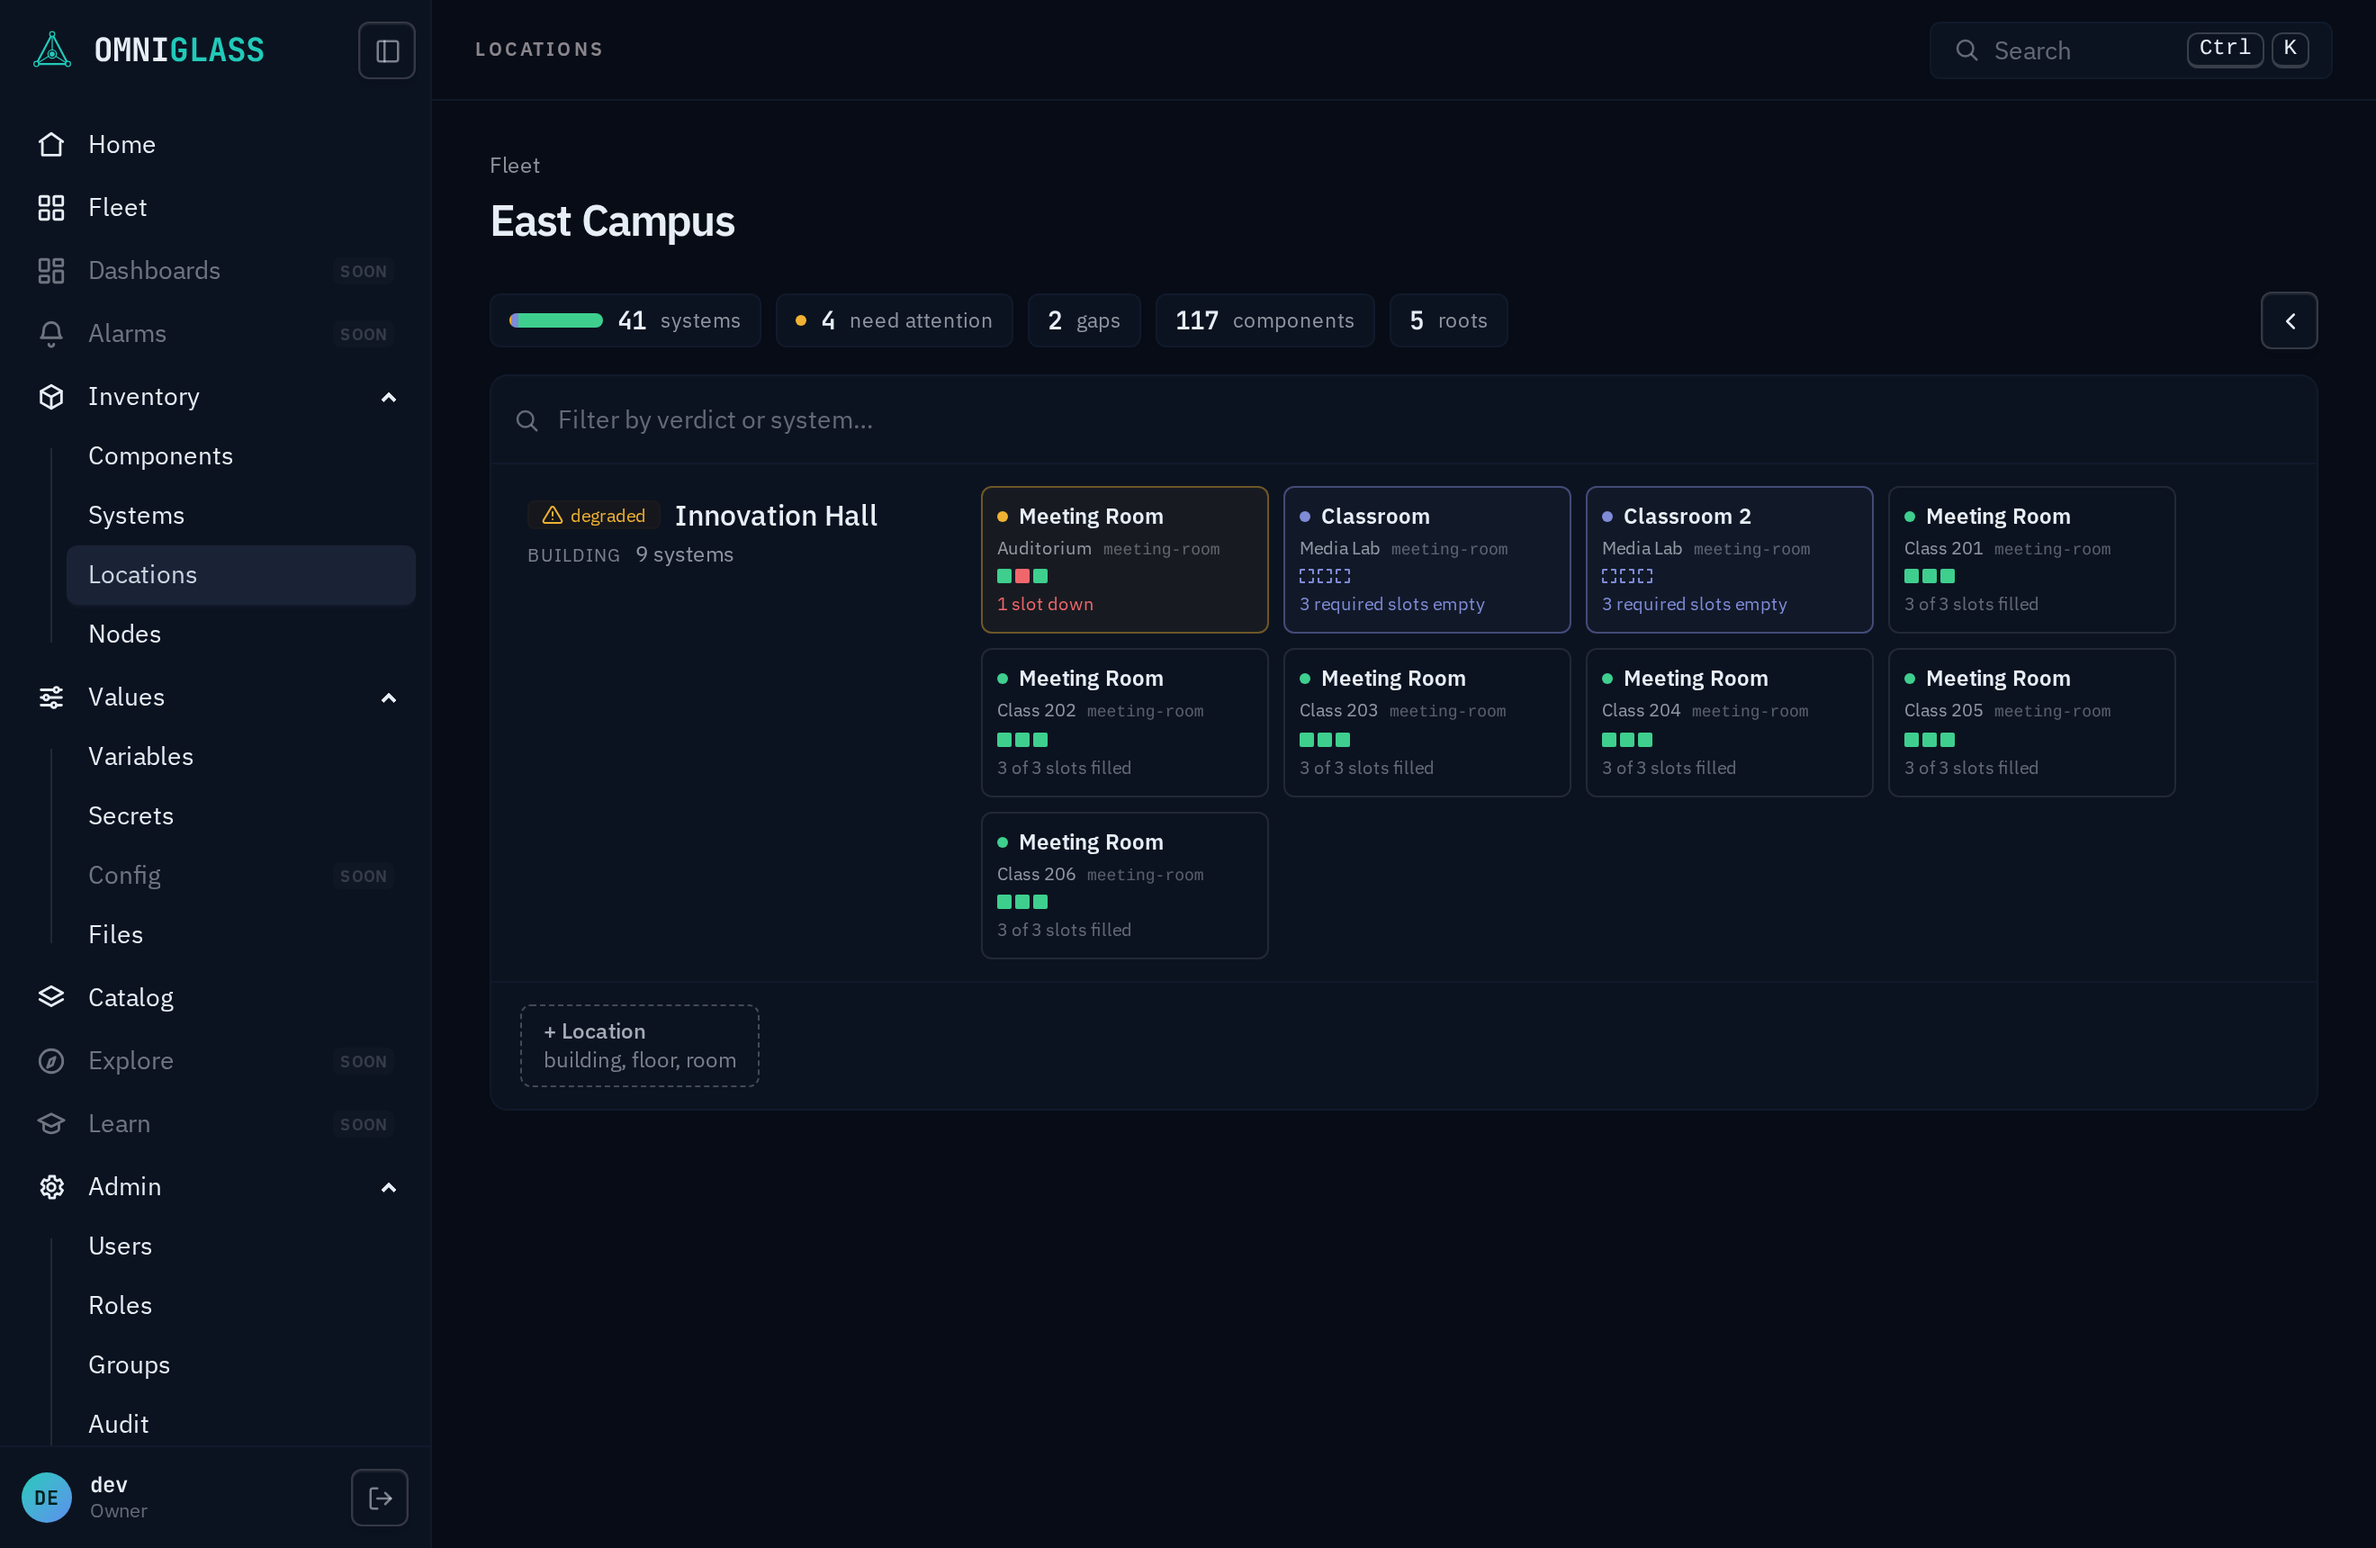
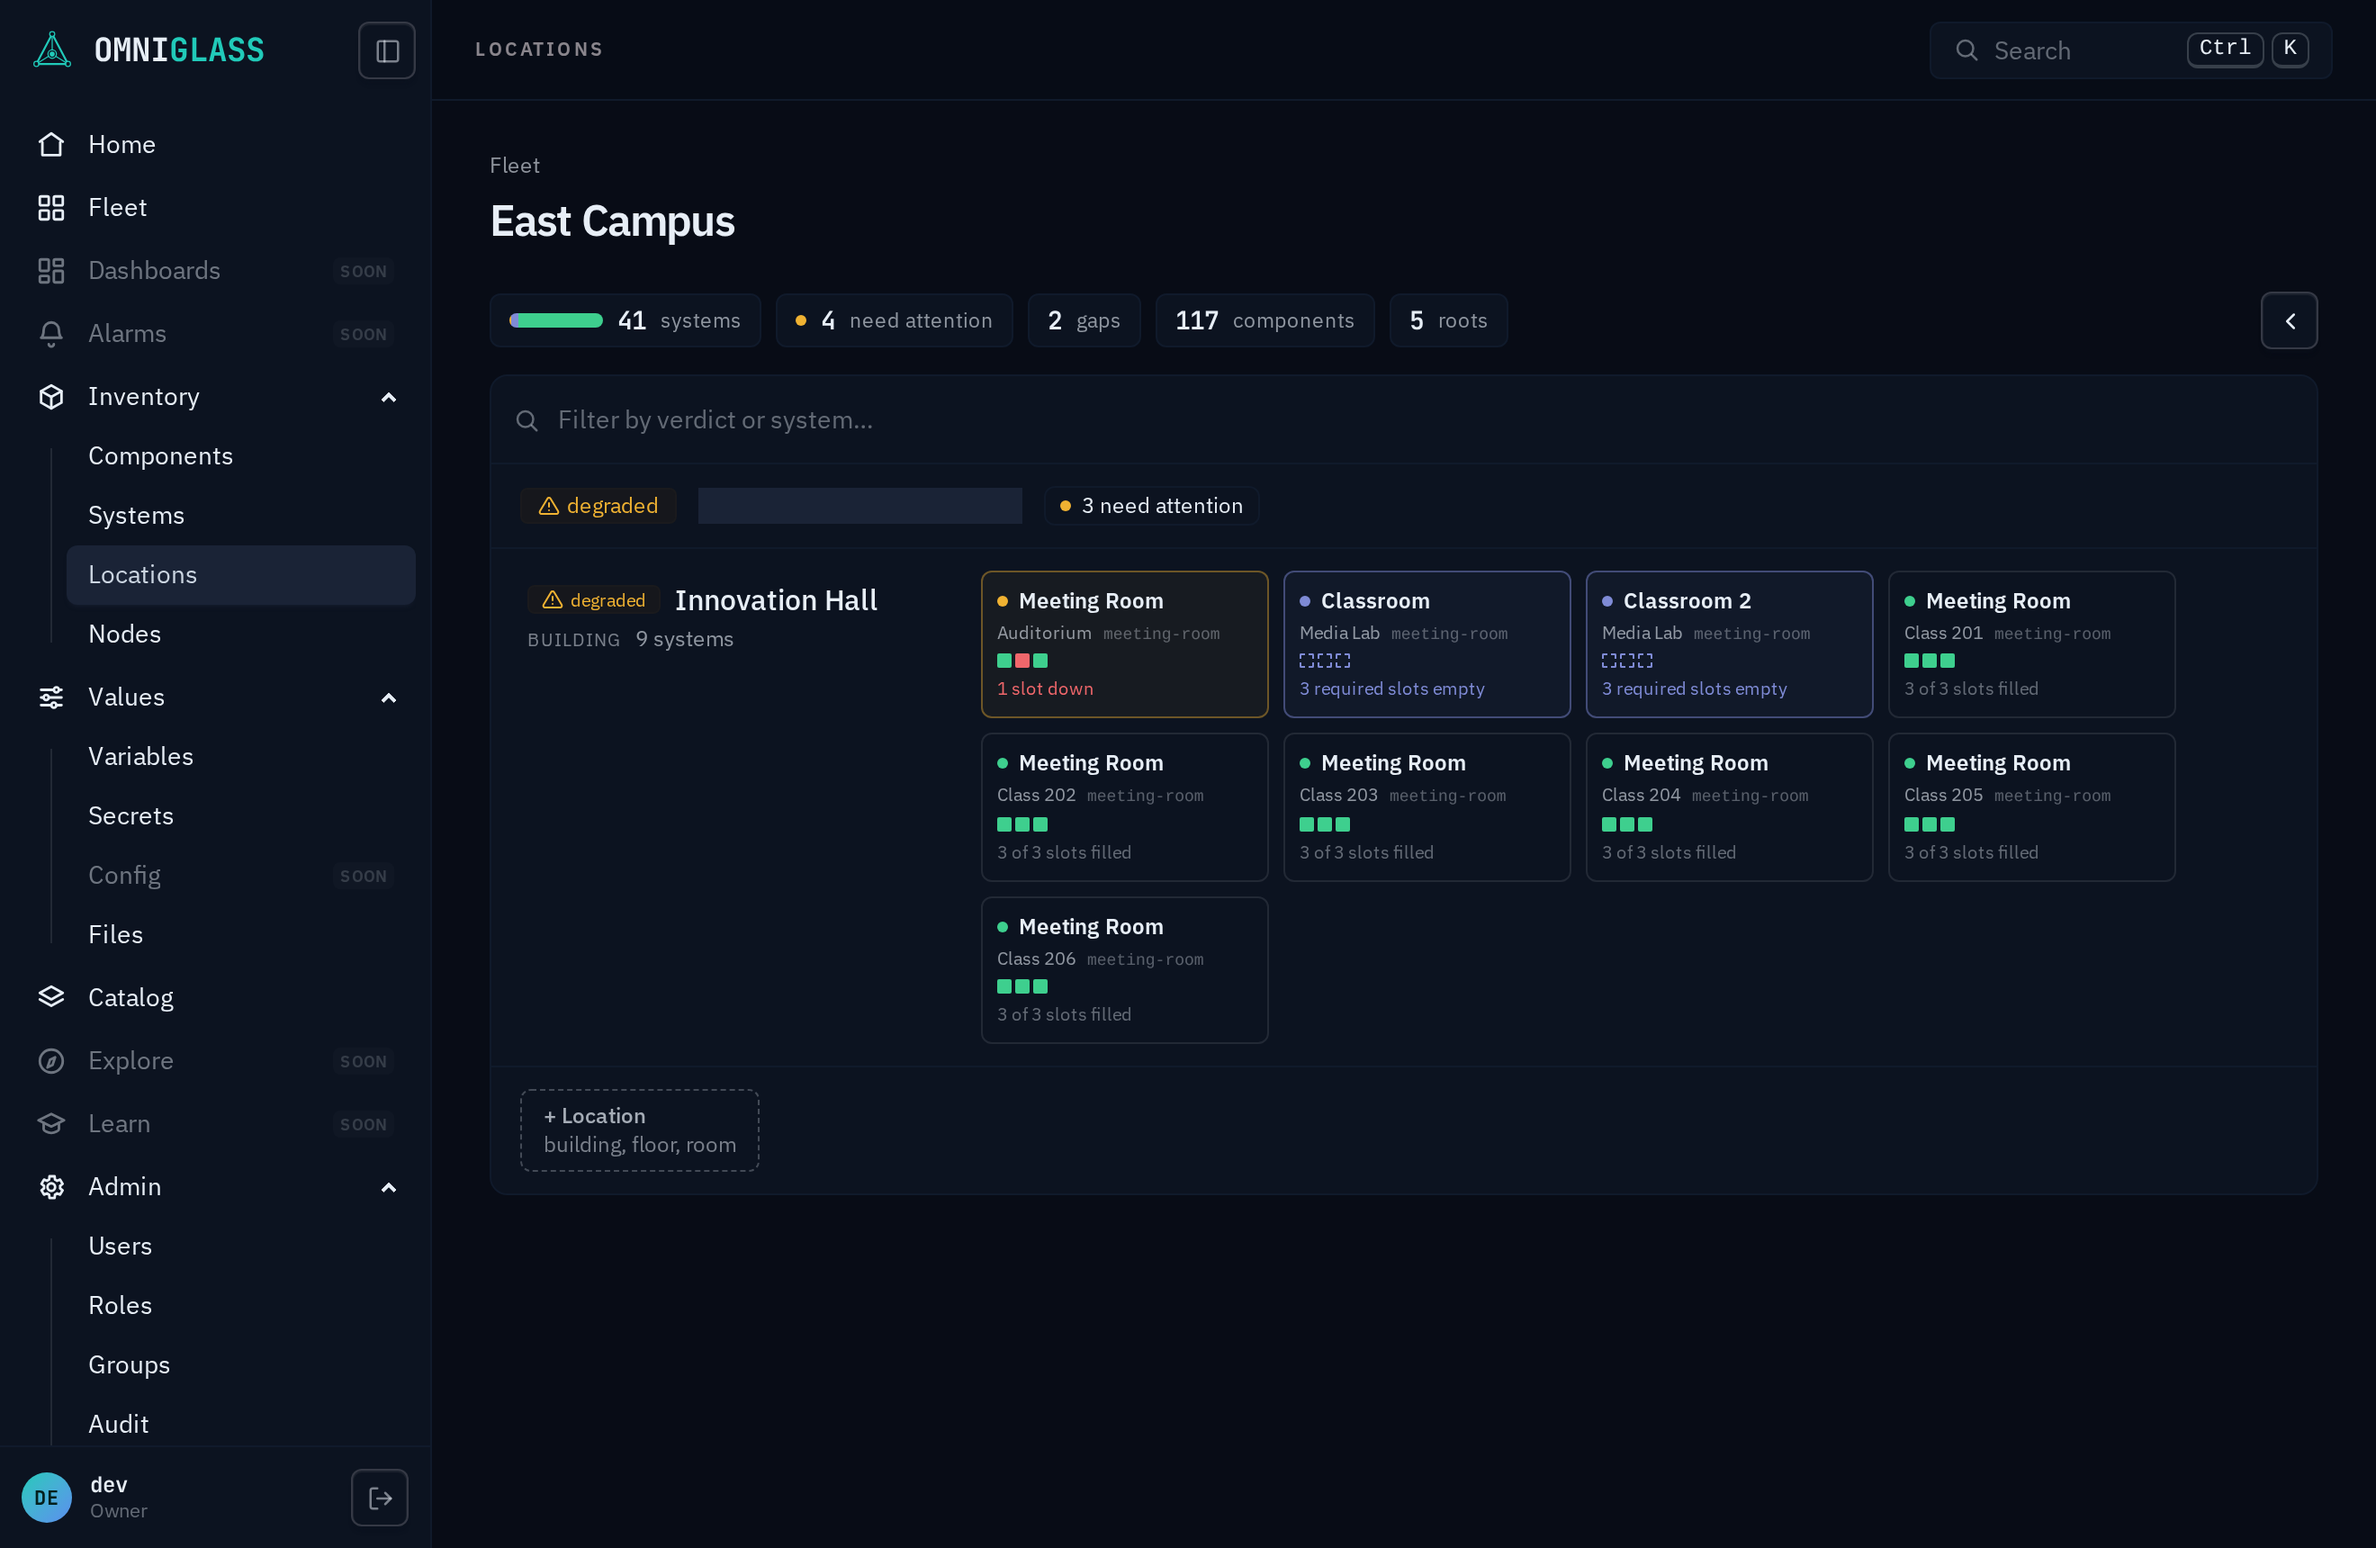
feat: the location header matches the system zoom (#787)
The location zoom's header gains the verdict badge, the since-line from
the location health read's transitions, and a needs-attention count for
this subtree whose click applies the existing worst-first verdict filter
to the cards. No new API; the location health read was already there.

diff --git a/web/src/pages/LocationZoom.tsx b/web/src/pages/LocationZoom.tsx
@@ -22,7 +22,10 @@ import {
 } from "../lib/fleet";
 import { LOCATION_TYPES_KEY, listLocationTypes } from "../lib/location_types";
 import { entityLabel } from "../lib/entities";
-import { describeError } from "../lib/format";
+import { durationText } from "../lib/timeline";
+import { sinceOf } from "../lib/system_zoom";
+import { describeError, fmtTime } from "../lib/format";
+import { locationHealth, locationHealthKey } from "../lib/health";
 
 // The location zoom (#635): the same canvas one level down, at the identity
 // route behind ?zoom=1 (ADR-0126). One band per direct child whatever its
@@ -35,6 +38,9 @@ export default function LocationZoom() {
   const navigate = useNavigate();
   const id = () => params.id;
   const view = useQuery(() => ({ queryKey: FLEET_VIEW_KEY, queryFn: fleetView }));
+  const locHealth = useQuery(() => ({ queryKey: locationHealthKey(id()), queryFn: () => locationHealth(id()) }));
+  // Pinned at setup, like the system zoom's: a moving now re-ages the line.
+  const pageNow = Date.now();
   const types = useQuery(() => ({ queryKey: LOCATION_TYPES_KEY, queryFn: listLocationTypes }));
 
   const anchor = createMemo(() => (view.data ? locationIndex(view.data).get(id()) : undefined));
@@ -62,6 +68,21 @@ export default function LocationZoom() {
     return bandsOf(view.data, byChildOfLocation(id())).map((b) => ({ ...b, clusters: b.clusters.filter(pred) }));
   });
   const holes = createMemo(() => (view.data ? holesUnder(id(), view.data) : new Map()));
+  // This subtree's own attention count, unfiltered: what the header chip
+  // reports and the chip's click narrows the cards to.
+  const ATTENTION = ["outage", "degraded", "incomplete"];
+  const attention = createMemo(() => {
+    if (!view.data) return 0;
+    return bandsOf(view.data, byChildOfLocation(id())).reduce(
+      (n, b) => n + b.clusters.filter((c) => c.verdict !== null && c.verdict !== "healthy").length,
+      0,
+    );
+  });
+  const attentionOn = () => chips().some((c) => c.key === "verdict" && c.values.some((v) => ATTENTION.includes(v)));
+  const toggleAttention = () => {
+    const rest = chips().filter((c) => c.key !== "verdict");
+    setChips(attentionOn() ? rest : [...rest, { key: "verdict", op: "eq", values: ATTENTION }]);
+  };
 
   const crumbs = createMemo(() => {
     if (!view.data) return [];
@@ -108,6 +129,25 @@ export default function LocationZoom() {
             chips={chips}
             onChips={setChips}
             placeholder="Filter by verdict or system…"
+            header={
+              <div data-testid="location-header" class="flex flex-wrap items-center gap-x-3 gap-y-1 text-sm">
+                <HealthBadge verdict={anchor()?.verdict ?? undefined} size="sm" />
+                <Show when={locHealth.data && sinceOf(locHealth.data, pageNow)}>
+                  {(sc) => <span data-testid="since-line" class="tabular-nums text-base-content/70">since {fmtTime(sc().ts)} · {durationText(sc().ms)}</span>}
+                </Show>
+                <Show when={attention() > 0}>
+                  <button
+                    type="button"
+                    class="inline-flex cursor-pointer items-center gap-1.5 rounded-field border px-2 py-0.5 text-xs"
+                    classList={{ "border-primary bg-primary/10": attentionOn(), "border-base-300": !attentionOn() }}
+                    onClick={toggleAttention}
+                  >
+                    <span class="h-1.5 w-1.5 flex-none rounded-full bg-warning" />
+                    {attention()} need attention
+                  </button>
+                </Show>
+              </div>
+            }
           >
             <div class="flex flex-col divide-y divide-base-300">
               <For each={bands()}>{(band) => <ZoomBand band={band} view={view.data!} />}</For>

diff --git a/web/src/pages/LocationZoom.test.tsx b/web/src/pages/LocationZoom.test.tsx
@@ -4,7 +4,7 @@ import { Router, Route } from "@solidjs/router";
 import { QueryClient, QueryClientProvider } from "@tanstack/solid-query";
 import Locations from "./Locations";
 import { FLEET_VIEW_KEY, type FleetView } from "../lib/fleet";
-import { systemHealthKey, type FleetHealth } from "../lib/health";
+import { locationHealthKey, systemHealthKey, type FleetHealth } from "../lib/health";
 import { LOCATION_TYPES_KEY, type LocationType } from "../lib/location_types";
 import { LOCATIONS_KEY } from "../lib/locations";
 import { SYSTEMS_KEY } from "../lib/systems";
@@ -111,6 +111,15 @@ function mount(path = `/web/locations/${uuidFor("lz-hq")}?zoom=1`) {
   qc.setQueryData([...SYSTEMS_KEY], []);
   qc.setQueryData([...TAGS_KEY], []);
   qc.setQueryData([...systemHealthKey(uuidFor("lz-s-lobby"))], lobbyHealth);
+  qc.setQueryData([...locationHealthKey(uuidFor("lz-hq"))], {
+    verdict: "degraded",
+    roles: [],
+    systems: [],
+    transitions: [
+      { ts: "2026-08-01T09:00:00Z", verdict: "healthy" },
+      { ts: "2026-08-15T14:20:00Z", verdict: "degraded" },
+    ],
+  } as unknown as FleetHealth);
   window.history.pushState({}, "", path);
   return render(() => (
     <QueryClientProvider client={qc}>
@@ -172,6 +181,24 @@ describe("the location zoom", () => {
     // The healthy Yard AV card is filtered out of this zoom; the others stay.
     expect(screen.queryByTestId(`syscard-${uuidFor("lz-s-yard")}`)).toBeNull();
     expect(screen.getByTestId(`syscard-${uuidFor("lz-s-lobby")}`)).toBeTruthy();
+  });
+
+  // #787: the location header matches the system zoom's shape.
+  it("the header wears the location's verdict, the since-line, and this subtree's needs-attention count", () => {
+    mount();
+    const header = screen.getByTestId("location-header");
+    expect(within(header).getByText("degraded")).toBeTruthy();
+    expect(within(header).getByText(/since/)).toBeTruthy();
+    // Fixture: signage incomplete + boardroom degraded + horn healthy = 2.
+    expect(within(header).getByText(/2 need attention/)).toBeTruthy();
+  });
+
+  it("clicking the needs-attention chip applies the worst-first verdict filter to this zoom's cards", () => {
+    mount();
+    expect(screen.getByTestId(`syscard-${uuidFor("lz-s-yard")}`)).toBeTruthy();
+    fireEvent.click(within(screen.getByTestId("location-header")).getByRole("button", { name: /need attention/ }));
+    expect(screen.queryByTestId(`syscard-${uuidFor("lz-s-yard")}`)).toBeNull();
+    expect(screen.getByTestId(`syscard-${uuidFor("lz-s-board")}`)).toBeTruthy();
   });
 
   it("clicking a child band drills deeper, carrying the zoom param", async () => {

diff --git a/docs/src/content/docs/guides/operator/fleet.md b/docs/src/content/docs/guides/operator/fleet.md
@@ -36,7 +36,10 @@ screenshots:
       - "text=/held \\d+[smh]/ >> xpath=ancestor::div[1]"
   - id: fleet-location
     path: /web/locations/east?zoom=1
-    alt: "The location zoom: the breadcrumb, a band per child location, system cards with slot strips, and the allowed child types."
+    alt: "The location zoom: the breadcrumb, the verdict header with the needs-attention chip, a band per child location, system cards with slot strips, and the allowed child types."
+    # The since-line ages with the capture.
+    mask:
+      - "[data-testid=since-line]"
   - id: fleet
     path: /web/fleet
     alt: "The fleet zoom: the summary rail, the filter bar, a band per root location with one round mark per system, and dashed holes."
@@ -86,8 +89,10 @@ the same address shows the inventory detail.
 
 ::screenshot{#fleet-location}
 
-One zoom down, marks are **square components** inside a **system outline** (the outline is
-the system's verdict, quiet when healthy). One band per direct child, whatever its type, plus a **placed here** band for systems
+One zoom down, the header repeats the shape the system zoom set: the location's verdict,
+since when, and a **needs-attention count** for this subtree that applies the worst-first
+filter on click. Marks are **square components** inside a **system outline** (the outline
+is the system's verdict, quiet when healthy). One band per direct child, whatever its type, plus a **placed here** band for systems
 attached to this location itself. Each system is a card: a status dot and border, the room
 and standard, a **slot strip** (one square per slot the standard wants: filled squares in
 the occupant's state, empty squares outlined), and a line saying how many required slots

diff --git a/docs/src/content/docs/architecture/build-log.md b/docs/src/content/docs/architecture/build-log.md
@@ -5595,3 +5595,8 @@ capabilities ship, so an early slice can prove a seam without moving any page of
   live-series marker, and grows the collection card's layer rungs so device-versus-path
   reads at a glance. Three component reads the console already had routes for and never
   called; no API change.
+- **The location header matches the system zoom**
+  ([#787](https://github.com/hyperscaleav/omniglass/issues/787)). The location zoom's
+  header gains the verdict badge, the since-line from the location health read's
+  transitions, and a needs-attention count for this subtree whose click applies the
+  existing worst-first verdict filter. No new API.
